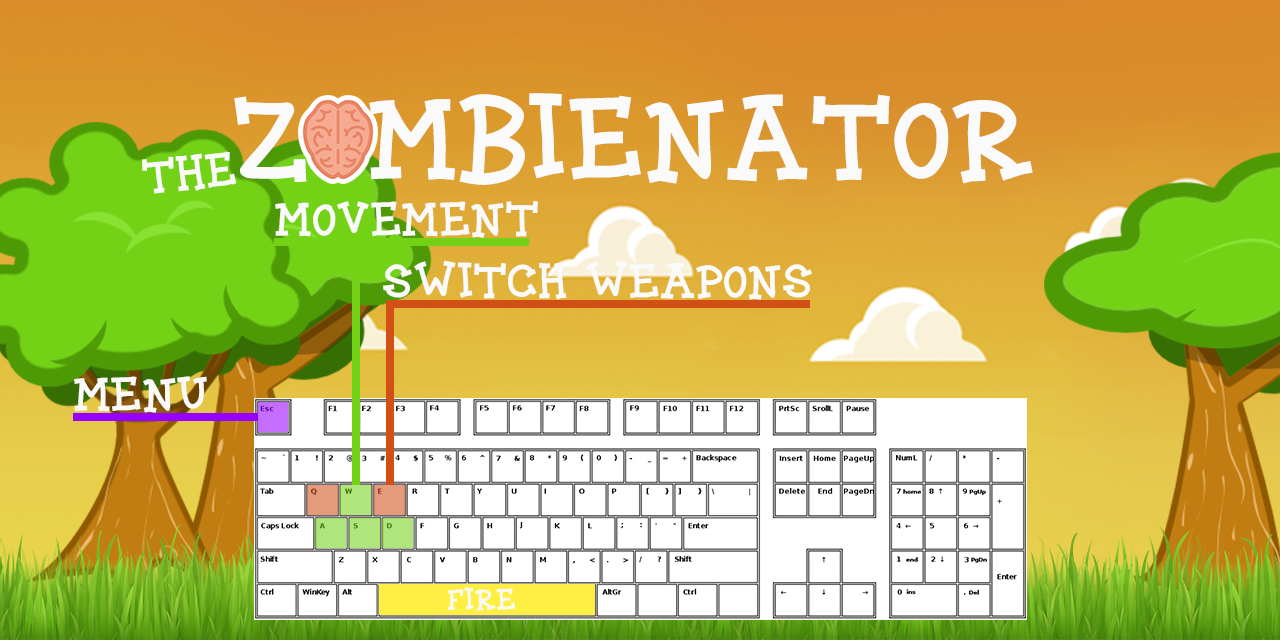
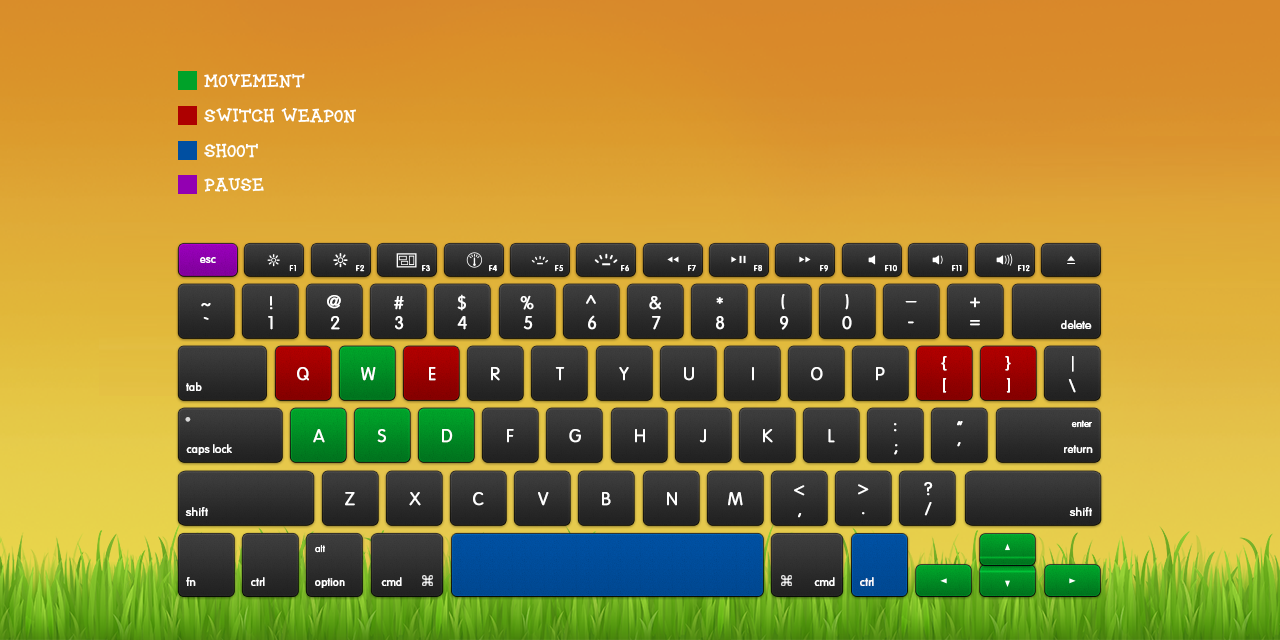
Helpscreen background + switch weapon controls P2

diff --git a/Project/Zombienator/GameScreen.cpp b/Project/Zombienator/GameScreen.cpp
@@ -21,7 +21,7 @@
 GameScreen::GameScreen(SDL_Renderer* ren, vector<string> characterUrls, string mapUrl) : AbstractScreen(ren)
 {
 	defaultKeybindings.push_back(new KeyBinding{ SDLK_w, SDLK_a, SDLK_s, SDLK_d, SDLK_SPACE, SDLK_e, SDLK_q });
-	defaultKeybindings.push_back(new KeyBinding{ SDLK_UP, SDLK_LEFT, SDLK_DOWN, SDLK_RIGHT, SDLK_RCTRL, SDLK_PAGEDOWN, SDLK_DELETE });
+	defaultKeybindings.push_back(new KeyBinding{ SDLK_UP, SDLK_LEFT, SDLK_DOWN, SDLK_RIGHT, SDLK_RCTRL, SDLK_LEFTBRACKET, SDLK_RIGHTBRACKET });
 	characterImageUrls = characterUrls;
 
 	// Get map
